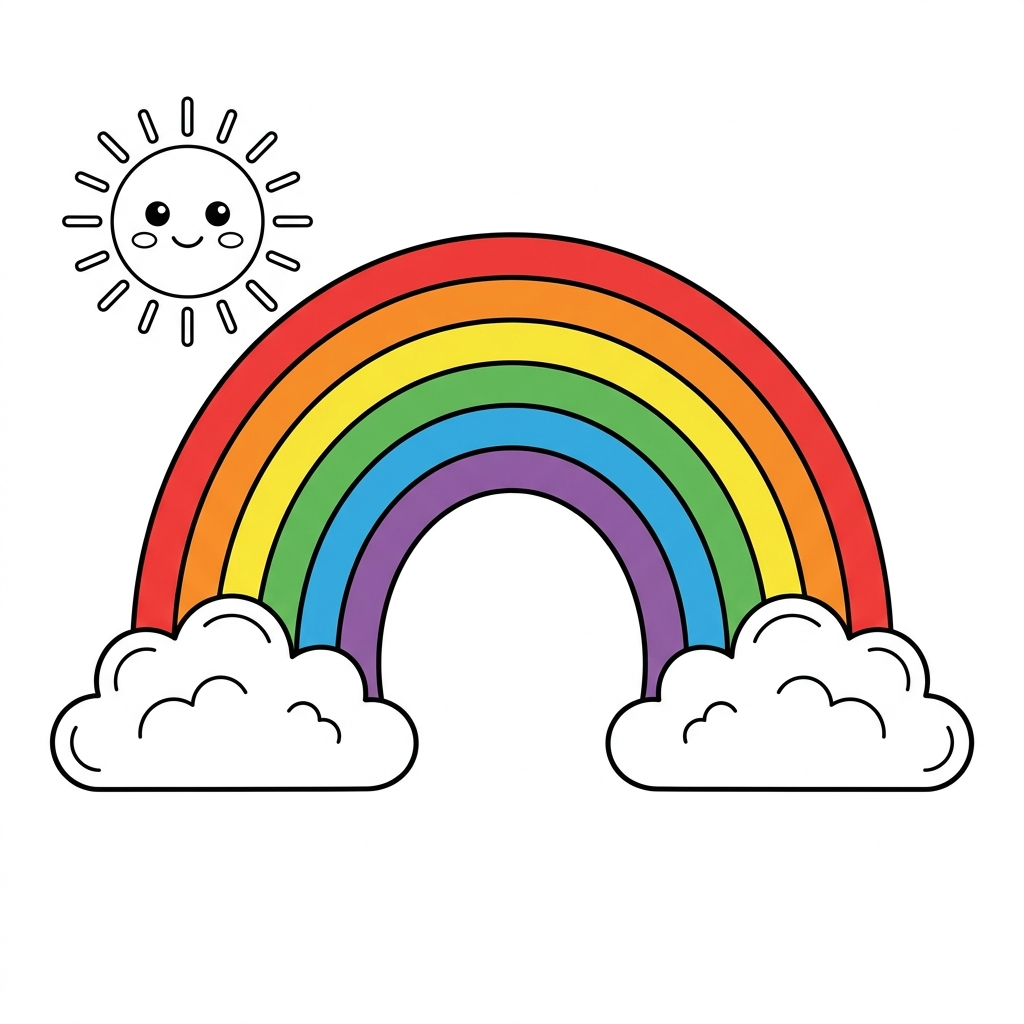
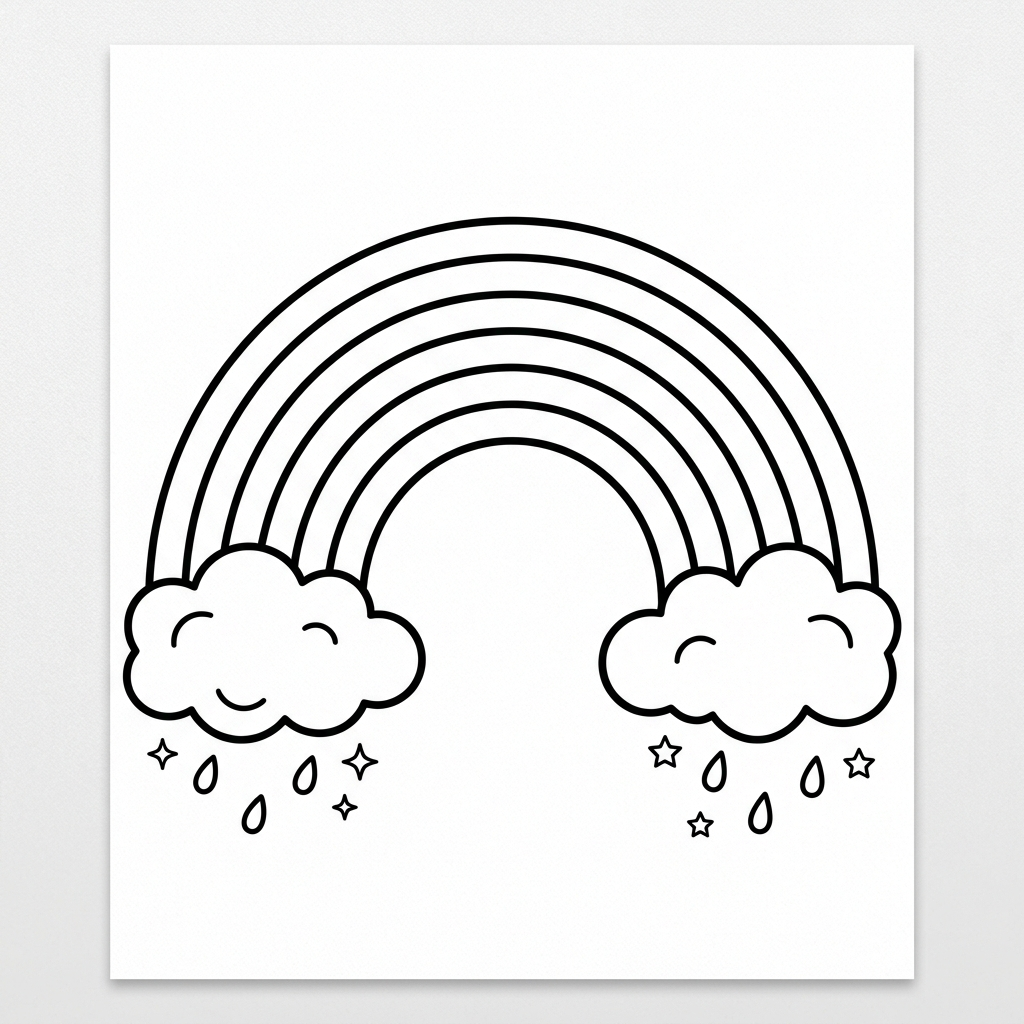
feat: Bigger responsive header, submit button with star scoring, fixed rainbow outline
- Header now bigger with clamp() for all devices
- Submit button (green checkmark) to submit coloring
- Star scoring: 3 stars (>70% colored), 2 stars (>35%), 1 star (<35%)
- Result overlay with Try Again / Next buttons
- Regenerated rainbow outline as empty (no color)
- All buttons responsive with clamp() sizing

diff --git a/src/components/Games.js b/src/components/Games.js
@@ -6825,32 +6825,124 @@ export function MagicColouringGame() {
     );
   }
 
+  // Calculate how much of the colorable area has been painted
+  const calculateCoverage = () => {
+    const canvas = canvasRef.current;
+    const mask = maskDataRef.current;
+    if (!canvas || !mask) return 0;
+    const ctx = canvas.getContext('2d');
+    const paintData = ctx.getImageData(0, 0, canvas.width, canvas.height);
+    let colorablePixels = 0;
+    let coloredPixels = 0;
+    for (let i = 0; i < mask.data.length; i += 4) {
+      const mr = mask.data[i], mg = mask.data[i + 1], mb = mask.data[i + 2];
+      // This pixel is in the colorable (white) area of the outline
+      if ((mr + mg + mb) / 3 > 180) {
+        colorablePixels++;
+        const pr = paintData.data[i], pg = paintData.data[i + 1], pb = paintData.data[i + 2];
+        // Check if this pixel has been painted (not white anymore)
+        if (pr < 245 || pg < 245 || pb < 245) {
+          coloredPixels++;
+        }
+      }
+    }
+    if (colorablePixels === 0) return 0;
+    return (coloredPixels / colorablePixels) * 100;
+  };
+
+  const [showResult, setShowResult] = useState(false);
+  const [starCount, setStarCount] = useState(0);
+
+  const submitColoring = () => {
+    const coverage = calculateCoverage();
+    let stars = 1;
+    if (coverage >= 70) stars = 3;
+    else if (coverage >= 35) stars = 2;
+    setStarCount(stars);
+    setShowResult(true);
+    if (soundEnabled) playTapSound();
+  };
+
+  const dismissResult = () => {
+    setShowResult(false);
+    if (starCount === 3) {
+      completeGame('magic-colouring', starCount);
+    }
+  };
+
+  const nextAfterResult = () => {
+    setShowResult(false);
+    if (starCount >= 1) {
+      completeGame('magic-colouring', starCount);
+    }
+    goToPage((pageIdx + 1) % TOTAL);
+  };
+
   return (
     <div className="game-container" style={{ position: 'relative', overflow: 'hidden', background: 'transparent', touchAction: 'none' }}>
       <img src={assetPath('/images/game/mewarna_ajaib_bg.jpg')} alt="" style={{ position: "absolute", top: 0, left: 0, width: "100%", height: "100%", objectFit: "cover", zIndex: 0, opacity: 0.4, pointerEvents: "none" }} />
 
-      <div style={{ position: 'relative', zIndex: 1, display: 'flex', flexDirection: 'column', height: '100%', padding: '6px 10px', gap: 4 }}>
-        {/* Top Bar */}
-        <div style={{ display: 'flex', alignItems: 'center', justifyContent: 'space-between', flexShrink: 0 }}>
-          <button onClick={() => goToWorld('colours')} style={{ background: 'rgba(255,255,255,0.9)', borderRadius: '50%', width: 34, height: 34, display: 'flex', alignItems: 'center', justifyContent: 'center', boxShadow: 'var(--shadow-sm)', border: 'none', cursor: 'pointer' }}>
-            <svg width="16" height="16" viewBox="0 0 24 24" fill="none" stroke="#7B1FA2" strokeWidth="2.5"><path d="M19 12H5M12 19l-7-7 7-7"/></svg>
+      <div style={{ position: 'relative', zIndex: 1, display: 'flex', flexDirection: 'column', height: '100%', padding: '8px 12px', gap: 6 }}>
+        {/* Top Bar - BIGGER & RESPONSIVE */}
+        <div style={{
+          display: 'flex', alignItems: 'center', justifyContent: 'space-between', flexShrink: 0,
+          background: 'rgba(255,255,255,0.92)', borderRadius: 20, padding: '8px 14px',
+          boxShadow: '0 4px 20px rgba(123,31,162,0.12)',
+        }}>
+          <button onClick={() => goToWorld('colours')} style={{
+            background: 'linear-gradient(135deg, #CE93D8, #7B1FA2)', borderRadius: '50%',
+            width: 'clamp(36px, 6vw, 44px)', height: 'clamp(36px, 6vw, 44px)',
+            display: 'flex', alignItems: 'center', justifyContent: 'center',
+            boxShadow: '0 3px 10px rgba(123,31,162,0.3)', border: 'none', cursor: 'pointer',
+          }}>
+            <svg width="18" height="18" viewBox="0 0 24 24" fill="none" stroke="#fff" strokeWidth="2.5"><path d="M19 12H5M12 19l-7-7 7-7"/></svg>
           </button>
+
           <button onClick={() => { saveSnapshot(); setShowPicker(true); }} style={{
-            background: 'rgba(255,255,255,0.95)', borderRadius: 16, padding: '4px 12px', border: 'none', cursor: 'pointer',
-            fontFamily: 'var(--font-heading)', fontSize: '0.75rem', color: '#7B1FA2', boxShadow: 'var(--shadow-sm)', display: 'flex', alignItems: 'center', gap: 6,
+            background: 'linear-gradient(135deg, #F3E5F5, #E1BEE7)', borderRadius: 20,
+            padding: 'clamp(6px, 1.5vw, 10px) clamp(14px, 3vw, 24px)',
+            border: '2px solid rgba(123,31,162,0.15)', cursor: 'pointer',
+            fontFamily: 'var(--font-heading)', fontSize: 'clamp(0.85rem, 2.5vw, 1.1rem)',
+            color: '#7B1FA2', boxShadow: '0 3px 10px rgba(123,31,162,0.1)',
+            display: 'flex', alignItems: 'center', gap: 8, fontWeight: 700,
           }}>
             {pageName}
-            <span style={{ fontSize: '0.6rem', color: '#999' }}>({pageIdx + 1}/{TOTAL})</span>
+            <span style={{ fontSize: 'clamp(0.65rem, 1.8vw, 0.85rem)', color: '#9C27B0', fontWeight: 500 }}>({pageIdx + 1}/{TOTAL})</span>
           </button>
-          <div style={{ display: 'flex', gap: 4 }}>
-            <button onClick={undoLast} title={lang === 'bm' ? 'Buat Semula' : 'Undo'} style={{ background: 'rgba(255,255,255,0.9)', borderRadius: '50%', width: 34, height: 34, display: 'flex', alignItems: 'center', justifyContent: 'center', border: 'none', cursor: 'pointer', boxShadow: 'var(--shadow-sm)' }}>
-              <svg width="15" height="15" viewBox="0 0 24 24" fill="none" stroke="#555" strokeWidth="2"><path d="M3 10h10a5 5 0 015 5v2M3 10l5-5M3 10l5 5"/></svg>
+
+          <div style={{ display: 'flex', gap: 'clamp(4px, 1vw, 8px)' }}>
+            <button onClick={undoLast} title={lang === 'bm' ? 'Buat Semula' : 'Undo'} style={{
+              background: 'rgba(255,255,255,0.95)', borderRadius: '50%',
+              width: 'clamp(34px, 5.5vw, 42px)', height: 'clamp(34px, 5.5vw, 42px)',
+              display: 'flex', alignItems: 'center', justifyContent: 'center',
+              border: '2px solid rgba(0,0,0,0.08)', cursor: 'pointer', boxShadow: '0 2px 8px rgba(0,0,0,0.08)',
+            }}>
+              <svg width="16" height="16" viewBox="0 0 24 24" fill="none" stroke="#555" strokeWidth="2"><path d="M3 10h10a5 5 0 015 5v2M3 10l5-5M3 10l5 5"/></svg>
             </button>
-            <button onClick={clearCanvas} title={lang === 'bm' ? 'Padam' : 'Clear'} style={{ background: 'rgba(255,255,255,0.9)', borderRadius: '50%', width: 34, height: 34, display: 'flex', alignItems: 'center', justifyContent: 'center', border: 'none', cursor: 'pointer', boxShadow: 'var(--shadow-sm)' }}>
-              <svg width="15" height="15" viewBox="0 0 24 24" fill="none" stroke="#E91E63" strokeWidth="2"><path d="M3 6h18M8 6V4a2 2 0 012-2h4a2 2 0 012 2v2m3 0v14a2 2 0 01-2 2H7a2 2 0 01-2-2V6h14"/></svg>
+            <button onClick={clearCanvas} title={lang === 'bm' ? 'Padam' : 'Clear'} style={{
+              background: 'rgba(255,255,255,0.95)', borderRadius: '50%',
+              width: 'clamp(34px, 5.5vw, 42px)', height: 'clamp(34px, 5.5vw, 42px)',
+              display: 'flex', alignItems: 'center', justifyContent: 'center',
+              border: '2px solid rgba(0,0,0,0.08)', cursor: 'pointer', boxShadow: '0 2px 8px rgba(0,0,0,0.08)',
+            }}>
+              <svg width="16" height="16" viewBox="0 0 24 24" fill="none" stroke="#E91E63" strokeWidth="2"><path d="M3 6h18M8 6V4a2 2 0 012-2h4a2 2 0 012 2v2m3 0v14a2 2 0 01-2 2H7a2 2 0 01-2-2V6h14"/></svg>
             </button>
-            <button onClick={() => goToPage((pageIdx + 1) % TOTAL)} title={lang === 'bm' ? 'Seterusnya' : 'Next'} style={{ background: 'rgba(255,255,255,0.9)', borderRadius: '50%', width: 34, height: 34, display: 'flex', alignItems: 'center', justifyContent: 'center', border: 'none', cursor: 'pointer', boxShadow: 'var(--shadow-sm)' }}>
-              <svg width="15" height="15" viewBox="0 0 24 24" fill="none" stroke="#7B1FA2" strokeWidth="2.5"><path d="M5 12h14M12 5l7 7-7 7"/></svg>
+            <button onClick={() => goToPage((pageIdx + 1) % TOTAL)} title={lang === 'bm' ? 'Seterusnya' : 'Next'} style={{
+              background: 'rgba(255,255,255,0.95)', borderRadius: '50%',
+              width: 'clamp(34px, 5.5vw, 42px)', height: 'clamp(34px, 5.5vw, 42px)',
+              display: 'flex', alignItems: 'center', justifyContent: 'center',
+              border: '2px solid rgba(0,0,0,0.08)', cursor: 'pointer', boxShadow: '0 2px 8px rgba(0,0,0,0.08)',
+            }}>
+              <svg width="16" height="16" viewBox="0 0 24 24" fill="none" stroke="#7B1FA2" strokeWidth="2.5"><path d="M5 12h14M12 5l7 7-7 7"/></svg>
+            </button>
+            {/* SUBMIT Button */}
+            <button onClick={submitColoring} title={lang === 'bm' ? 'Hantar' : 'Submit'} style={{
+              background: 'linear-gradient(135deg, #4CAF50, #2E7D32)', borderRadius: '50%',
+              width: 'clamp(34px, 5.5vw, 42px)', height: 'clamp(34px, 5.5vw, 42px)',
+              display: 'flex', alignItems: 'center', justifyContent: 'center',
+              border: 'none', cursor: 'pointer', boxShadow: '0 3px 10px rgba(76,175,80,0.35)',
+            }}>
+              <svg width="18" height="18" viewBox="0 0 24 24" fill="none" stroke="#fff" strokeWidth="3"><path d="M20 6L9 17l-5-5"/></svg>
             </button>
           </div>
         </div>
@@ -6862,8 +6954,8 @@ export function MagicColouringGame() {
         }}>
           <div style={{
             position: 'relative',
-            width: 'min(calc(100vh - 220px), calc(100vw - 40px), 400px)',
-            height: 'min(calc(100vh - 220px), calc(100vw - 40px), 400px)',
+            width: 'min(calc(100vh - 260px), calc(100vw - 40px), 420px)',
+            height: 'min(calc(100vh - 260px), calc(100vw - 40px), 420px)',
             borderRadius: 16, overflow: 'hidden',
             boxShadow: '0 8px 40px rgba(123,31,162,0.15), inset 0 0 0 2px rgba(123,31,162,0.06)',
             background: '#fff',
@@ -6903,8 +6995,8 @@ export function MagicColouringGame() {
 
         {/* Selected color + brush size */}
         <div style={{ display: 'flex', alignItems: 'center', justifyContent: 'center', gap: 10, flexShrink: 0 }}>
-          <div style={{ width: 20, height: 20, borderRadius: '50%', background: selectedColor, border: selectedColor === '#FFFFFF' ? '2px solid #ccc' : '2px solid rgba(0,0,0,0.15)', boxShadow: `0 2px 6px ${selectedColor}44` }} />
-          <span style={{ fontFamily: 'var(--font-heading)', fontSize: '0.7rem', color: '#555' }}>{colorName}</span>
+          <div style={{ width: 22, height: 22, borderRadius: '50%', background: selectedColor, border: selectedColor === '#FFFFFF' ? '2px solid #ccc' : '2px solid rgba(0,0,0,0.15)', boxShadow: `0 2px 6px ${selectedColor}44` }} />
+          <span style={{ fontFamily: 'var(--font-heading)', fontSize: 'clamp(0.65rem, 2vw, 0.8rem)', color: '#555' }}>{colorName}</span>
           <div style={{ display: 'flex', gap: 4, alignItems: 'center', marginLeft: 8 }}>
             {BRUSH_SIZES.map((s) => (
               <button key={s} onClick={() => { selectBrush(s); if (soundEnabled) playTapSound(); }} style={{
@@ -6921,16 +7013,16 @@ export function MagicColouringGame() {
 
         {/* Color Palette */}
         <div style={{
-          display: 'flex', gap: 4, justifyContent: 'center', flexWrap: 'wrap',
-          background: 'rgba(255,255,255,0.95)', borderRadius: 16, padding: '6px 8px',
-          boxShadow: 'var(--shadow-sm)', maxWidth: 400, margin: '0 auto', flexShrink: 0,
+          display: 'flex', gap: 'clamp(3px, 0.8vw, 5px)', justifyContent: 'center', flexWrap: 'wrap',
+          background: 'rgba(255,255,255,0.95)', borderRadius: 16, padding: 'clamp(4px, 1vw, 8px) clamp(6px, 1.5vw, 10px)',
+          boxShadow: 'var(--shadow-sm)', maxWidth: 440, margin: '0 auto', flexShrink: 0,
         }}>
           {COLORS.map((c, i) => (
             <button key={i} onClick={() => {
               selectColor(c, i);
               if (soundEnabled) playTapSound();
             }} style={{
-              width: 26, height: 26, borderRadius: '50%', background: c,
+              width: 'clamp(22px, 5vw, 28px)', height: 'clamp(22px, 5vw, 28px)', borderRadius: '50%', background: c,
               border: selectedColor === c ? '3px solid #333' : c === '#FFFFFF' ? '2px solid #ccc' : '2px solid rgba(255,255,255,0.8)',
               cursor: 'pointer',
               transform: selectedColor === c ? 'scale(1.3)' : 'scale(1)',
@@ -6952,6 +7044,64 @@ export function MagicColouringGame() {
           ))}
         </div>
       </div>
+
+      {/* Star Result Overlay */}
+      {showResult && (
+        <div style={{
+          position: 'absolute', top: 0, left: 0, width: '100%', height: '100%',
+          background: 'rgba(0,0,0,0.6)', zIndex: 100, display: 'flex', alignItems: 'center', justifyContent: 'center',
+          backdropFilter: 'blur(8px)',
+        }}>
+          <div style={{
+            background: 'linear-gradient(135deg, #fff, #F3E5F5)', borderRadius: 28, padding: 'clamp(24px, 5vw, 40px)',
+            textAlign: 'center', boxShadow: '0 20px 60px rgba(0,0,0,0.3)', maxWidth: 340, width: '85%',
+            animation: 'bounceIn 0.4s ease',
+          }}>
+            <div style={{ fontSize: 'clamp(1rem, 3vw, 1.3rem)', fontFamily: 'var(--font-heading)', color: '#7B1FA2', marginBottom: 8, fontWeight: 700 }}>
+              {lang === 'bm' ? 'Tahniah!' : 'Well Done!'}
+            </div>
+            <div style={{ fontSize: 'clamp(1rem, 3vw, 1.3rem)', fontFamily: 'var(--font-heading)', color: '#555', marginBottom: 16 }}>
+              {pageName}
+            </div>
+            {/* Stars */}
+            <div style={{ display: 'flex', justifyContent: 'center', gap: 8, marginBottom: 20 }}>
+              {[1, 2, 3].map(s => (
+                <svg key={s} width="clamp(36, 8vw, 52)" height="clamp(36, 8vw, 52)" viewBox="0 0 24 24"
+                  fill={s <= starCount ? '#FFD700' : '#ddd'}
+                  stroke={s <= starCount ? '#FFA000' : '#ccc'} strokeWidth="0.5"
+                  style={{ filter: s <= starCount ? 'drop-shadow(0 3px 6px rgba(255,193,7,0.5))' : 'none', transition: 'all 0.3s ease' }}
+                >
+                  <path d="M12 2l3.09 6.26L22 9.27l-5 4.87 1.18 6.88L12 17.77l-6.18 3.25L7 14.14 2 9.27l6.91-1.01L12 2z"/>
+                </svg>
+              ))}
+            </div>
+            <div style={{ fontSize: 'clamp(0.75rem, 2vw, 0.9rem)', color: '#888', marginBottom: 20, fontFamily: 'var(--font-heading)' }}>
+              {starCount === 3
+                ? (lang === 'bm' ? 'Sempurna! Kamu warnakan semuanya!' : 'Perfect! You colored everything!')
+                : starCount === 2
+                ? (lang === 'bm' ? 'Bagus! Cuba warnakan lagi!' : 'Good! Try coloring more!')
+                : (lang === 'bm' ? 'Cuba lagi! Warnakan lebih banyak!' : 'Try again! Color more!')}
+            </div>
+            <div style={{ display: 'flex', gap: 10, justifyContent: 'center' }}>
+              <button onClick={dismissResult} style={{
+                background: 'rgba(123,31,162,0.1)', border: '2px solid #7B1FA2', borderRadius: 16,
+                padding: '10px 20px', cursor: 'pointer', fontFamily: 'var(--font-heading)',
+                fontSize: 'clamp(0.8rem, 2vw, 0.95rem)', color: '#7B1FA2', fontWeight: 700,
+              }}>
+                {lang === 'bm' ? 'Cuba Lagi' : 'Try Again'}
+              </button>
+              <button onClick={nextAfterResult} style={{
+                background: 'linear-gradient(135deg, #7B1FA2, #9C27B0)', border: 'none', borderRadius: 16,
+                padding: '10px 20px', cursor: 'pointer', fontFamily: 'var(--font-heading)',
+                fontSize: 'clamp(0.8rem, 2vw, 0.95rem)', color: '#fff', fontWeight: 700,
+                boxShadow: '0 4px 15px rgba(123,31,162,0.3)',
+              }}>
+                {lang === 'bm' ? 'Seterusnya' : 'Next'}
+              </button>
+            </div>
+          </div>
+        </div>
+      )}
     </div>
   );
 }
